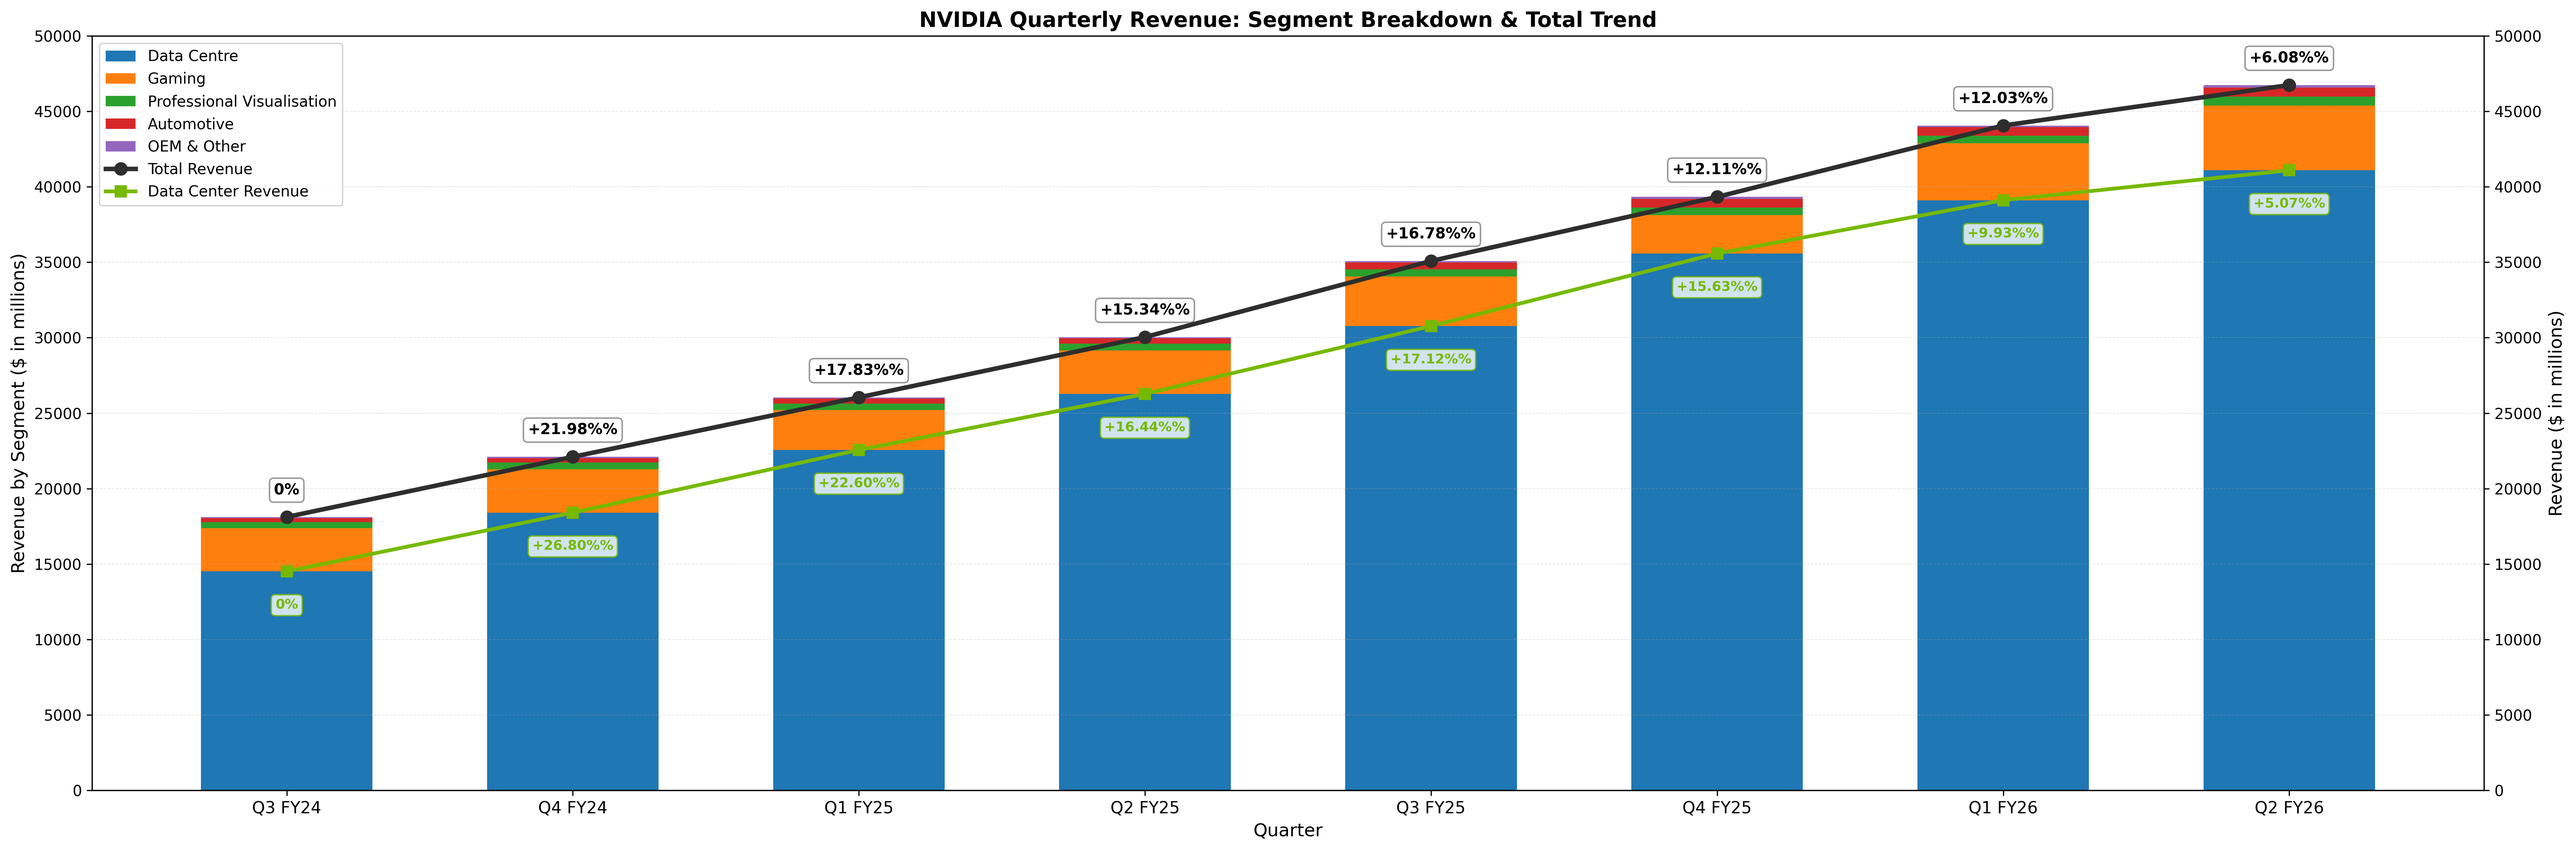
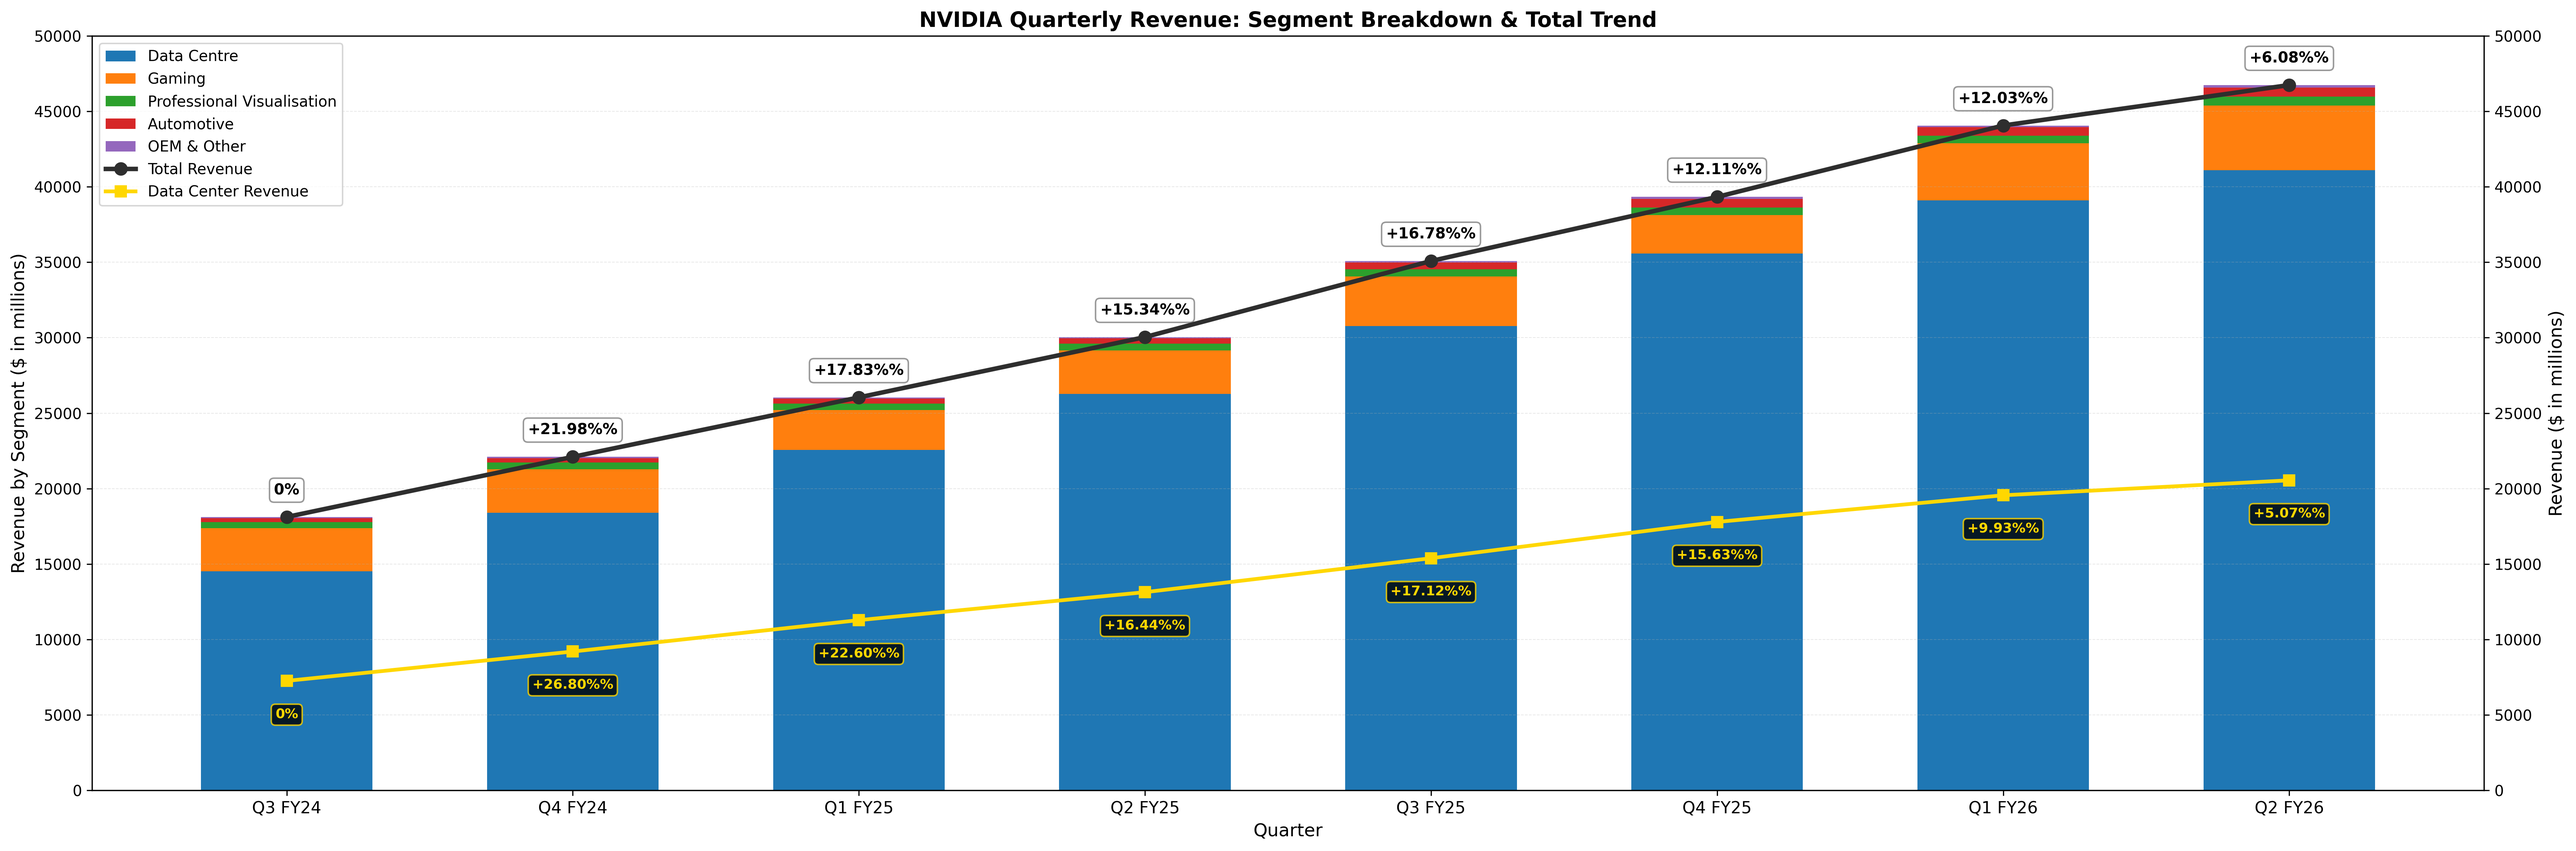
Improve data centre line visibility

diff --git a/main.py b/main.py
@@ -81,11 +81,12 @@ data_center_growth_rates = [
     for i in range(len(data_center))
 ]
 
-# Add data center revenue line
+# Add data center revenue line (positioned at midpoint of data center segment)
+data_center_midpoint = [val / 2 for val in data_center]
 line_dc = ax2.plot(
     x,
-    data_center,
-    color="#76B900",
+    data_center_midpoint,
+    color="#FFD700",
     marker="s",
     linewidth=2.5,
     markersize=7,
@@ -116,15 +117,15 @@ for i, rate in enumerate(growth_rates):
 for i, rate in enumerate(data_center_growth_rates):
     ax2.annotate(
         f"{rate}%",
-        (x[i], data_center[i]),
+        (x[i], data_center_midpoint[i]),
         textcoords="offset points",
         xytext=(0, -25),
         ha="center",
         fontsize=9,
         fontweight="bold",
-        color="#76B900",
+        color="#FFD700",
         bbox=dict(
-            boxstyle="round,pad=0.3", facecolor="white", edgecolor="#76B900", alpha=0.8
+            boxstyle="round,pad=0.3", facecolor="black", edgecolor="#FFD700", alpha=0.8
         ),
     )
 
